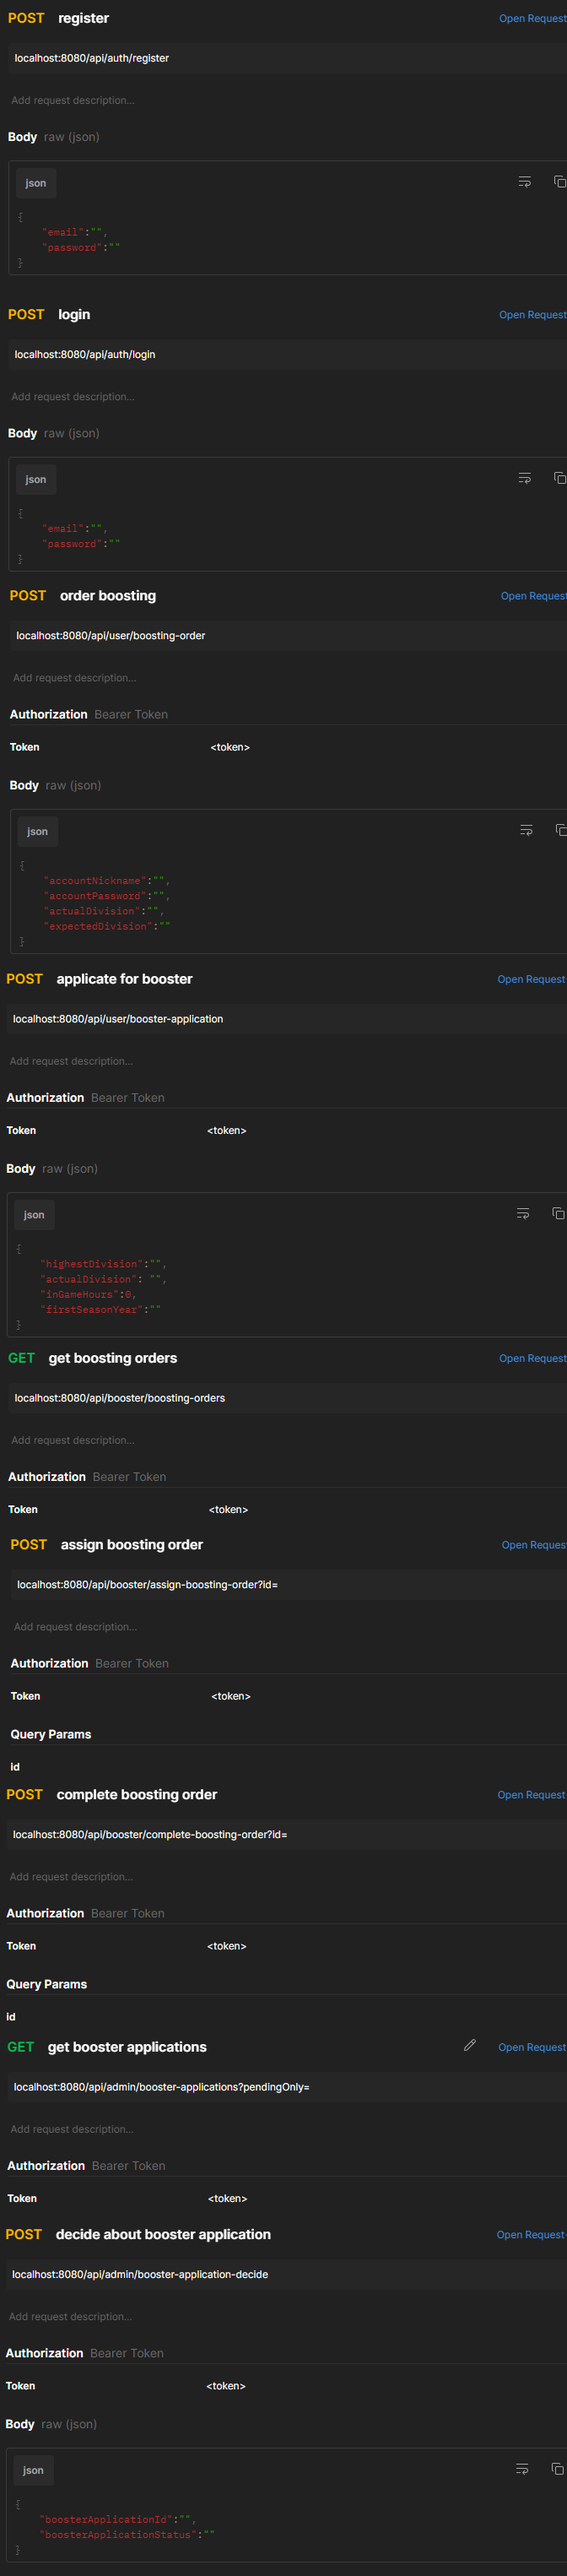
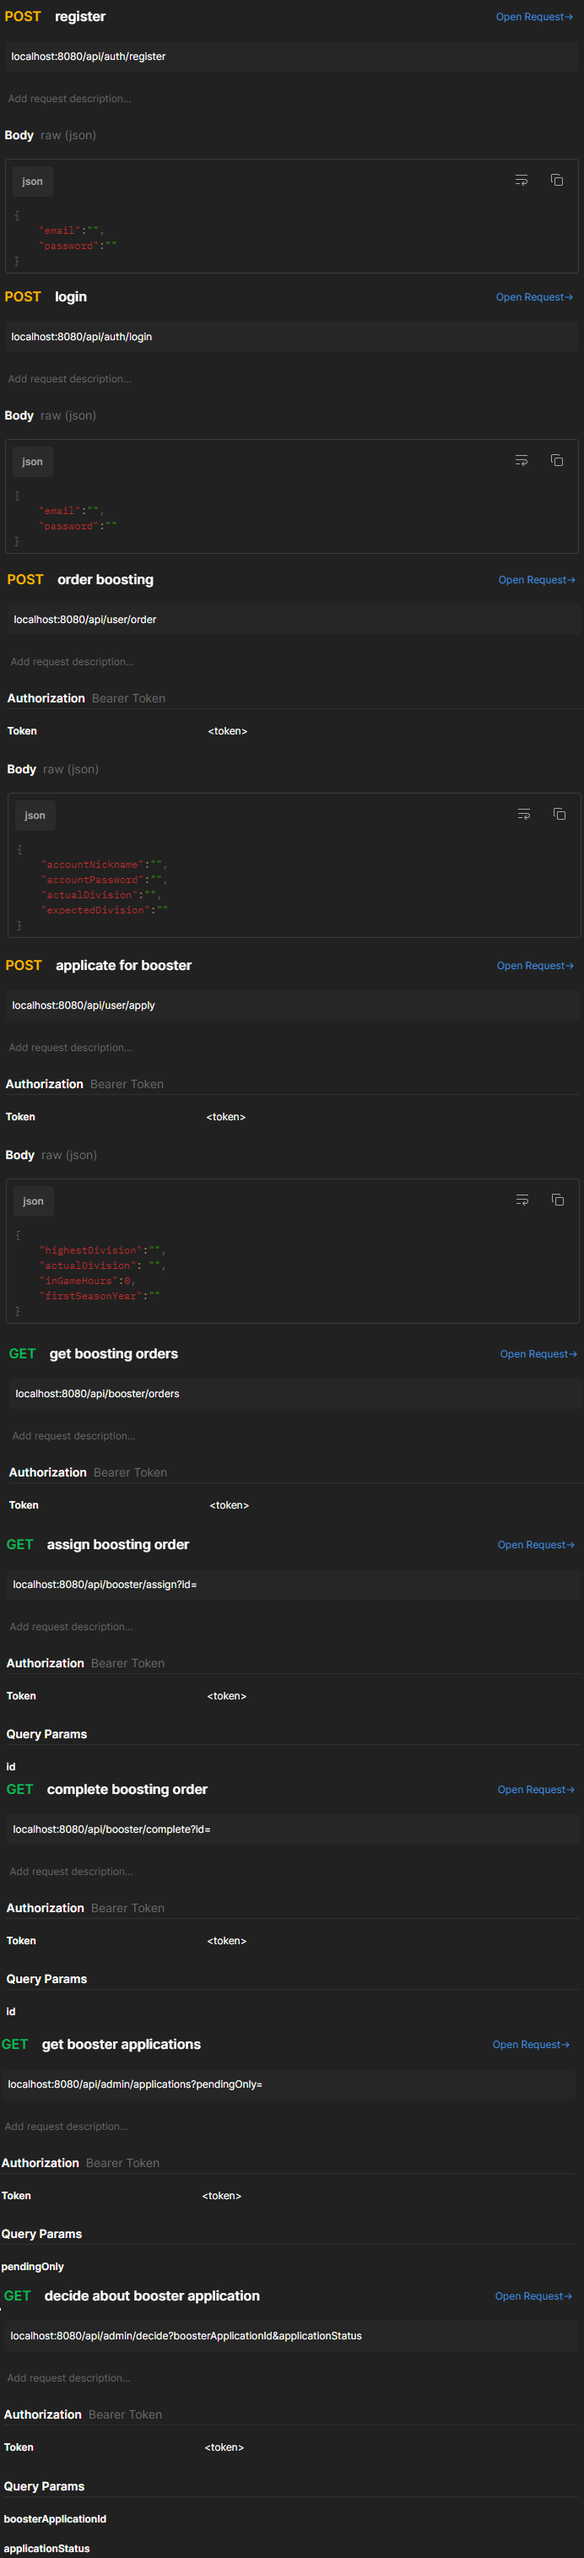
decide application endpoint fixes

diff --git a/src/test/java/com/capa/boostify/user/service/admin/DecideBoosterApplicationTest.java b/src/test/java/com/capa/boostify/user/service/admin/DecideBoosterApplicationTest.java
@@ -45,7 +45,7 @@ class DecideBoosterApplicationTest {
 
         when(boosterApplicationRepository.findById(boosterApplicationDecision.getBoosterApplicationId())).thenReturn(Optional.of(boosterApplication));
 
-        String result = adminService.decideBoosterApplication(boosterApplicationDecision);
+        String result = adminService.decideBoosterApplication(boosterApplicationDecision.getBoosterApplicationId(), boosterApplicationDecision.getApplicationStatus());
 
         verify(boosterApplicationRepository, times(1)).findById(boosterApplicationDecision.getBoosterApplicationId());
         verify(boosterApplicationRepository, times(1)).save(boosterApplication);
@@ -67,7 +67,7 @@ class DecideBoosterApplicationTest {
         when(boosterApplicationRepository.findById(boosterApplicationDecision.getBoosterApplicationId())).thenReturn(Optional.of(boosterApplication));
         when(userRepository.findById(any())).thenReturn(Optional.of(new User()));
         boosterApplication.setUser(User.builder().id(UUID.randomUUID().toString()).build());
-        String result = adminService.decideBoosterApplication(boosterApplicationDecision);
+        String result = adminService.decideBoosterApplication(boosterApplicationDecision.getBoosterApplicationId(), boosterApplicationDecision.getApplicationStatus());
 
         verify(boosterApplicationRepository, times(1)).findById(boosterApplicationDecision.getBoosterApplicationId());
         verify(boosterApplicationRepository, times(1)).save(boosterApplication);
@@ -80,7 +80,8 @@ class DecideBoosterApplicationTest {
     public void testDecideBoosterApplicationWithInvalidData() {
         BoosterApplicationDecision boosterApplicationDecision = new BoosterApplicationDecision();
 
-        InvalidBoosterApplicationDecideDataException exception = assertThrows(InvalidBoosterApplicationDecideDataException.class, () -> adminService.decideBoosterApplication(boosterApplicationDecision));
+        InvalidBoosterApplicationDecideDataException exception = assertThrows(InvalidBoosterApplicationDecideDataException.class,
+                () -> adminService.decideBoosterApplication(boosterApplicationDecision.getBoosterApplicationId(), boosterApplicationDecision.getApplicationStatus()));
 
         verify(boosterApplicationRepository, never()).findById(anyString());
         verify(boosterApplicationRepository, never()).save(any(BoosterApplication.class));
@@ -100,7 +101,7 @@ class DecideBoosterApplicationTest {
 
         when(boosterApplicationRepository.findById(boosterApplicationDecision.getBoosterApplicationId())).thenReturn(Optional.of(boosterApplication));
 
-        String result = adminService.decideBoosterApplication(boosterApplicationDecision);
+        String result = adminService.decideBoosterApplication(boosterApplicationDecision.getBoosterApplicationId(), boosterApplicationDecision.getApplicationStatus());
 
         verify(boosterApplicationRepository, times(1)).findById(boosterApplicationDecision.getBoosterApplicationId());
         verify(boosterApplicationRepository, times(1)).save(boosterApplication);
@@ -121,7 +122,7 @@ class DecideBoosterApplicationTest {
 
         when(boosterApplicationRepository.findById(boosterApplicationDecision.getBoosterApplicationId())).thenReturn(Optional.of(boosterApplication));
 
-        String result = adminService.decideBoosterApplication(boosterApplicationDecision);
+        String result = adminService.decideBoosterApplication(boosterApplicationDecision.getBoosterApplicationId(), boosterApplicationDecision.getApplicationStatus());
 
         assertEquals(result, "This application is already resolved !");
 

diff --git a/src/main/java/com/capa/boostify/controller/AdminController.java b/src/main/java/com/capa/boostify/controller/AdminController.java
@@ -1,8 +1,11 @@
 package com.capa.boostify.controller;
 
 import com.capa.boostify.service.AdminService;
+import com.capa.boostify.utils.ApplicationStatus;
 import com.capa.boostify.utils.BoosterApplicationDecision;
+import com.capa.boostify.utils.BoosterApplicationStatusDeserializer;
 import com.capa.boostify.utils.dto.BoosterApplicationDto;
+import com.fasterxml.jackson.databind.annotation.JsonDeserialize;
 import lombok.RequiredArgsConstructor;
 import org.springframework.http.HttpStatus;
 import org.springframework.web.bind.annotation.*;
@@ -18,8 +21,9 @@ public class AdminController {
 
     @GetMapping("/decide")
     @ResponseStatus(HttpStatus.OK)
-    public String decideBoosterApplication(@RequestBody BoosterApplicationDecision decision) {
-        return adminService.decideBoosterApplication(decision);
+    public String decideBoosterApplication(@RequestParam(name = "boosterApplicationId", defaultValue = "") String id,
+                                           @RequestParam(name = "applicationStatus") @JsonDeserialize(using = BoosterApplicationStatusDeserializer.class) ApplicationStatus applicationStatus) {
+        return adminService.decideBoosterApplication(id,applicationStatus);
     }
 
     @GetMapping("/applications")

diff --git a/src/main/java/com/capa/boostify/service/AdminService.java b/src/main/java/com/capa/boostify/service/AdminService.java
@@ -22,7 +22,8 @@ public class AdminService {
     private final BoosterApplicationRepository boosterApplicationRepository;
     private final UserRepository userRepository;
 
-    public String decideBoosterApplication(BoosterApplicationDecision decision) {
+    public String decideBoosterApplication(String id, ApplicationStatus applicationStatus) {
+            BoosterApplicationDecision decision = new BoosterApplicationDecision(id,applicationStatus);
         if (!decision.isValid()) throw new InvalidBoosterApplicationDecideDataException();
 
         BoosterApplication application = boosterApplicationRepository.findById(decision.getBoosterApplicationId())
